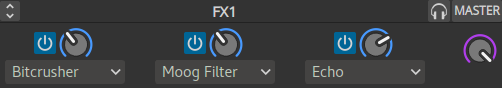
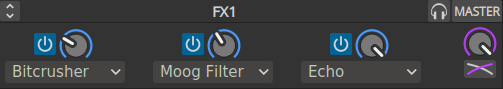
update effects screenshots

diff --git a/source/chapters/effects.rst b/source/chapters/effects.rst
@@ -102,17 +102,31 @@ synchronized to the tempo of decks.
 
 .. _effects-mix-mode:
 
-Effect Unit Mix Knob and Mix Modes
+Effect Unit Mix Modes
 ==================================
 The effect unit mix knob controls the level of all 3 effects in the unit
 together. It can be toggled between two different modes with the mix mode
 button adjacent to it.
+
+.. figure:: ../_static/effect-unit-dry-slash-wet-mode.png
+   :align: center
+   :alt: An effect unit in Dry/Wet mode
+   :figclass: pretty-figures
+
+   An effect unit in Dry/Wet mode
 
 In the default Dry/Wet mode, the mix knob crossfades between the dry signal
 (input to the first effect in the unit) and the wet signal (output of the last
 effect in the unit). When the knob is fully left, no sound will be heard from
 the effect unit. When the knob is fully right, only the output of the effect
 unit will be heard without any of the dry input signal.
+
+.. figure:: ../_static/effect-unit-dry-plus-wet-mode.png
+   :align: center
+   :alt: An effect unit in Dry+Wet mode
+   :figclass: pretty-figures
+
+   An effect unit in Dry+Wet mode
 
 In Dry+Wet mode, the dry signal is always at full volume. The mix knob controls
 how much of the wet signal is added to the dry signal. A useful example for
